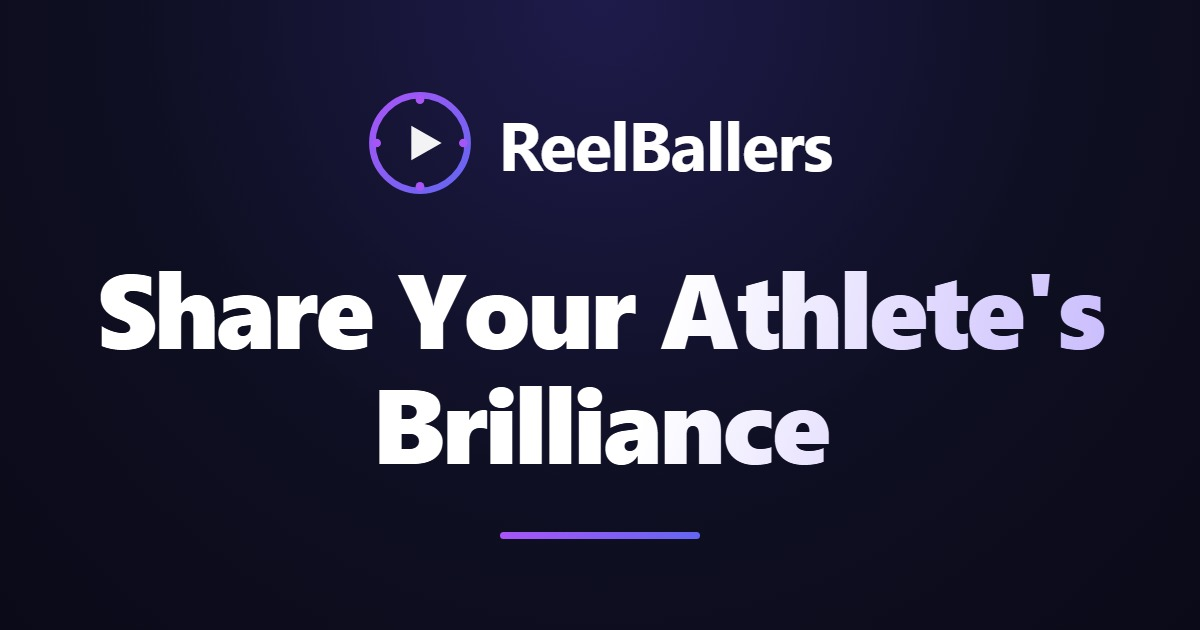
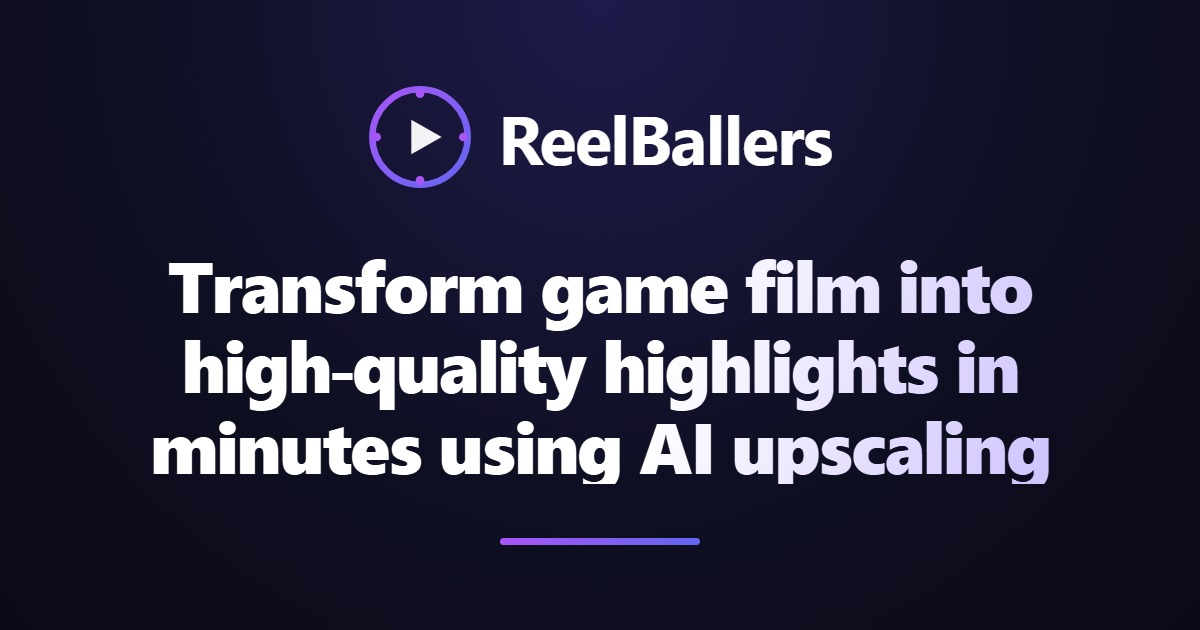
Tagline: "Transform game film into high-quality highlights in minutes using AI upscaling"; no-subscription pricing copy
Replaces "Share Your Athlete's/Player's Brilliance" everywhere it shipped:
landing site.ts TAGLINE (hero h1, About subline, regenerated og-card.jpg),
app sign-in screen and home header, app meta descriptions, and the branded
outro card burned into exported videos (now two centered lines with a
width-fitted font so it survives the 9:16 card; card version bumped).

Pricing copy now states the model consistently: no subscription, buy credits
when needed, pay only for the AI you use, credits never expire. Flows through
FACTS.pricingSummary into llms.txt and the SoftwareApplication offer schema;
hero note, pricing headline, cost FAQ, CTA, and CapCut comparison updated.
Also drops the "highlight reels automatically" WebPage name (overclaim).

Changed region(s): [[0.0617, 0.3921, 0.925, 0.7841], [0.3083, 0.1206, 0.7092, 0.3317], [0.4008, 0.8444, 0.5858, 0.8746]]

diff --git a/src/frontend/index.html b/src/frontend/index.html
@@ -8,18 +8,18 @@
     <meta name="theme-color" content="#7c3aed" />
     <meta name="robots" content="noindex,follow" />
     <title>ReelBallers</title>
-    <meta name="description" content="Turn game film into highlight reels. Clip, spotlight, and share your player's best plays in minutes." />
+    <meta name="description" content="Transform game film into high-quality highlights in minutes using AI upscaling. No subscription: pay only for the AI you use." />
     <meta property="og:type" content="website" />
     <meta property="og:site_name" content="ReelBallers" />
     <meta property="og:title" content="ReelBallers" />
-    <meta property="og:description" content="Turn game film into highlight reels. Clip, spotlight, and share your player's best plays in minutes." />
+    <meta property="og:description" content="Transform game film into high-quality highlights in minutes using AI upscaling. No subscription: pay only for the AI you use." />
     <meta property="og:image" content="https://app.reelballers.com/og-card.jpg" />
     <meta property="og:image:type" content="image/jpeg" />
     <meta property="og:image:width" content="1200" />
     <meta property="og:image:height" content="630" />
     <meta name="twitter:card" content="summary_large_image" />
     <meta name="twitter:title" content="ReelBallers" />
-    <meta name="twitter:description" content="Turn game film into highlight reels. Clip, spotlight, and share your player's best plays in minutes." />
+    <meta name="twitter:description" content="Transform game film into high-quality highlights in minutes using AI upscaling. No subscription: pay only for the AI you use." />
     <meta name="twitter:image" content="https://app.reelballers.com/og-card.jpg" />
     <link rel="preconnect" href="https://app.reelballers.com" crossorigin>
     <script src="https://accounts.google.com/gsi/client" async defer></script>

diff --git a/src/landing/src/site.ts b/src/landing/src/site.ts
@@ -24,7 +24,7 @@ export const BRAND = 'ReelBallers'
  * The brand tagline. This is the headline humans read -- keep it short and keep
  * it the brand's voice. It is NOT the schema description; see DEFINITION.
  */
-export const TAGLINE = "Share Your Athlete's Brilliance"
+export const TAGLINE = 'Transform game film into high-quality highlights in minutes using AI upscaling'
 
 /**
  * The one-sentence factual definition, for machines rather than humans. Used
@@ -65,8 +65,8 @@ export const FACTS = {
   viewerRequirement: 'a web browser -- no app install and no account',
   /** Runs entirely in the browser; nothing to download. */
   install: 'Runs in the browser. There is nothing to download or install.',
-  /** Pricing. "Free to start" is the claim already made publicly. */
-  pricingSummary: 'Free to start.',
+  /** Pricing. No subscription exists in the product: credits are bought outright (pricing.json packs) and spent per upload/generation. */
+  pricingSummary: 'Free to start. No subscription: buy credits when you need them and pay only for the AI you use. Credits never expire.',
   /** New-account signup bonus (8) plus the welcome grant (80), both granted unconditionally and upfront at signup (T8120 retired the per-quest drip; T9680 confirmed 88 total, no conditions; T11170 decoupled the 80 from the quest system). Source of truth: NEW_ACCOUNT_CREDITS + WELCOME_CREDITS, both in storage_credits.py. */
   freeCredits: 88,
   /** Flat render cost: 1 credit per second of finished, exported video, rounded to the nearest second -- same rate regardless of resolution, upscaling, or overlays. Source of truth: round_credits_half_up(video_seconds) (round-half-up + 1-credit floor, T9750) in highlight_transform.py. */

diff --git a/src/landing/src/data/comparisons.ts b/src/landing/src/data/comparisons.ts
@@ -83,7 +83,7 @@ export const COMPARISONS: Comparison[] = [
       {
         dimension: 'Cost',
         them: 'Free if you already own an editor, or the price of one.',
-        us: 'Free to start.',
+        us: 'Free to start, then credits you buy as needed. No subscription.',
         winner: 'depends',
       },
       {
@@ -114,7 +114,7 @@ export const COMPARISONS: Comparison[] = [
     faqs: [
       {
         q: 'Is it cheaper to edit highlights myself?',
-        a: 'In money, often yes -- free editors exist and ReelBallers has paid tiers beyond the free start. In time, no: a manual reel typically costs several hours, and that cost repeats every time the reel changes.',
+        a: 'In money, often yes -- free editors exist and ReelBallers charges credits beyond the free start, with no subscription. In time, no: a manual reel typically costs several hours, and that cost repeats every time the reel changes.',
       },
       {
         q: 'Can I get the same result editing by hand?',
@@ -227,7 +227,7 @@ export const COMPARISONS: Comparison[] = [
       },
       {
         q: 'Is ReelBallers free like CapCut?',
-        a: 'ReelBallers is free to start. Both have paid tiers; check each for current pricing rather than relying on a figure quoted on a comparison page.',
+        a: 'ReelBallers is free to start and has no subscription: you buy credits and pay only for the AI you use. CapCut has a paid tier; check it for current pricing rather than relying on a figure quoted on a comparison page.',
       },
     ],
   },

diff --git a/src/frontend/src/components/ProjectManager.jsx b/src/frontend/src/components/ProjectManager.jsx
@@ -1527,7 +1527,7 @@ export function ProjectManager({
       {/* Header — pt-10 clears the fixed top-right controls on mobile */}
       <div className="text-center pt-10 coarse-pointer:pt-12 lg:pt-0 mb-4">
         <LogoWithText className="mx-auto mb-3" logoSize={40} textClassName="text-2xl sm:text-3xl" />
-        <p className="text-gray-400 text-sm">Share Your Player&apos;s Brilliance</p>
+        <p className="text-gray-400 text-sm">Transform game film into high-quality highlights in minutes using AI upscaling</p>
       </div>
 
       {/* T8330: proactive storage-expiry banner. Deep-links to the Games tab

diff --git a/src/landing/src/lib/schema.ts b/src/landing/src/lib/schema.ts
@@ -9,7 +9,7 @@
  * Fabricated ratings are a Google manual-action risk and AI engines cross-check
  * claims against other sources. See data/testimonials.ts.
  */
-import { SITE_URL, BRAND, DEFINITION, absUrl } from '../site'
+import { SITE_URL, BRAND, DEFINITION, FACTS, absUrl } from '../site'
 
 export interface FaqItem {
   q: string
@@ -48,7 +48,7 @@ export function softwareApplication(opts: { name?: string; description?: string 
       '@type': 'Offer',
       price: '0',
       priceCurrency: 'USD',
-      description: 'Free to start.',
+      description: FACTS.pricingSummary,
     },
   }
 }

diff --git a/src/frontend/src/components/SignInScreen.jsx b/src/frontend/src/components/SignInScreen.jsx
@@ -63,7 +63,7 @@ export function SignInScreen() {
               <LogoWithText />
             </div>
             <p className="text-gray-400 text-sm">
-              Share Your Player's Brilliance
+              Transform game film into high-quality highlights in minutes using AI upscaling
             </p>
           </div>
 

diff --git a/src/backend/app/services/branded_outro.py b/src/backend/app/services/branded_outro.py
@@ -83,10 +83,20 @@ OUTRO_PLAY_FADE_D = 0.12
 OUTRO_REVEAL_ST = 2.60       # tagline + URL begin fading in (after the brand read-hold)
 OUTRO_REVEAL_FADE_D = 0.35
 # Bump when the card LAYOUT or ANIMATION changes so stale cached cards (old build) rebuild.
-_CARD_VERSION = "v5-read-hold"
+_CARD_VERSION = "v6-two-line-tagline"
 MADE_WITH_TEXT = "Made with"
 BRAND_TEXT = "ReelBallers"
-TAGLINE_TEXT = "Share Your Player's Brilliance"
+TAGLINE_TEXT = "Transform game film into high-quality highlights in minutes using AI upscaling"
+# The tagline is burned in as TWO centered lines (one line overflows the 9:16 card even at
+# the fitted size). Split at the clause boundary; the join must equal TAGLINE_TEXT so the
+# card can never carry different words from the rest of the brand.
+TAGLINE_LINES = (
+    "Transform game film into high-quality",
+    "highlights in minutes using AI upscaling",
+)
+assert " ".join(TAGLINE_LINES) == TAGLINE_TEXT
+# DejaVu Sans Bold averages ~0.66 em per character; used to fit the tagline to the card width.
+_TAGLINE_EM_PER_CHAR = 0.66
 URL_TEXT = "reelballers.com"
 
 # Bundled font -- the Fly image installs ffmpeg but NO fontconfig fonts, so drawtext
@@ -199,7 +209,7 @@ def _build_outro_card(card_path: str, info: dict) -> None:
     #   "Made with"      (small caption, above the emblem)
     #   [emblem]         (spinning ring + landing play triangle -- the visual anchor)
     #   "ReelBallers"   (brand wordmark, below the emblem: reads "Made with .. ReelBallers")
-    #   tagline          ("Share Your Player's Brilliance")
+    #   tagline          (TAGLINE_LINES, two centered lines)
     #   reelballers.com  (URL, near the bottom edge)
     # The emblem is a square, sized off the SHORTER card side so it never overflows on any
     # of 9:16 / 1:1 / 16:9; overlay=(W-w)/2 centers it horizontally.
@@ -214,7 +224,11 @@ def _build_outro_card(card_path: str, info: dict) -> None:
 
     made_fs = max(16, round(h * 0.030))            # "Made with" -- deliberately small
     brand_fs = max(20, round(h * 0.045))           # "ReelBallers" -- the brand, larger
-    tag_fs = max(15, round(h * 0.028))
+    # Cap the tagline size so its longest line stays inside 90% of the card width: on 9:16
+    # the height-derived size would run the two-line tagline off both edges.
+    tag_fit = int(w * 0.90 / (max(len(line) for line in TAGLINE_LINES) * _TAGLINE_EM_PER_CHAR))
+    tag_fs = max(15, min(round(h * 0.028), tag_fit))
+    tag_line_h = round(tag_fs * 1.3)
     url_fs = max(13, round(h * 0.024))
     made_y = emblem_top - made_fs - round(h * 0.02)
     brand_y = emblem_bot + round(h * 0.03)
@@ -238,14 +252,24 @@ def _build_outro_card(card_path: str, info: dict) -> None:
     eob = f"1+2.70158*pow({q}-1,3)+1.70158*pow({q}-1,2)"
     play_dim = f"{emblem}*max(0.05,{eob})"
 
-    # The tagline contains an apostrophe, which cannot be reliably escaped inside a
-    # single-quoted drawtext `text=` across ffmpeg builds. Write it to a temp file and
-    # point drawtext at it with `textfile=` (sidesteps all filtergraph quoting).
-    tag_fd, tag_path = tempfile.mkstemp(suffix=".txt", prefix="rb_outro_tag_")
+    # Brand copy is written to temp files and drawn with `textfile=` rather than quoted
+    # inline in `text=`: punctuation (apostrophes, colons, commas) cannot be reliably
+    # escaped inside a single-quoted drawtext across ffmpeg builds, and this sidesteps all
+    # filtergraph quoting. One file per tagline line, each line centered independently
+    # (multi-line drawtext centers the block, not each line, on older ffmpeg builds).
+    tag_paths: list[str] = []
     try:
-        with os.fdopen(tag_fd, "w", encoding="utf-8") as f:
-            f.write(TAGLINE_TEXT)
-        tagfile = _escape_filter_path(Path(tag_path).as_posix())
+        for line in TAGLINE_LINES:
+            tag_fd, tag_path = tempfile.mkstemp(suffix=".txt", prefix="rb_outro_tag_")
+            tag_paths.append(tag_path)
+            with os.fdopen(tag_fd, "w", encoding="utf-8") as f:
+                f.write(line)
+        tagline_filters = "".join(
+            f"drawtext=fontfile='{font}':textfile='{_escape_filter_path(Path(p).as_posix())}':"
+            f"fontsize={tag_fs}:fontcolor={_CAPTION_COLOR}:x=(w-text_w)/2:y={tag_y + i * tag_line_h}:"
+            f"alpha='{_reveal_alpha()}',"
+            for i, p in enumerate(tag_paths)
+        )
 
         filter_complex = (
             # Ring: scale to the emblem box, spin (decelerating), fade in.
@@ -272,9 +296,7 @@ def _build_outro_card(card_path: str, info: dict) -> None:
             f"drawtext=fontfile='{font}':text='{BRAND_TEXT}':"
             f"fontsize={brand_fs}:fontcolor={_BRAND_COLOR}:x=(w-text_w)/2:y={brand_y},"
             # Staged reveal: tagline + URL fade in TOGETHER after the brand read-hold.
-            f"drawtext=fontfile='{font}':textfile='{tagfile}':"
-            f"fontsize={tag_fs}:fontcolor={_CAPTION_COLOR}:x=(w-text_w)/2:y={tag_y}:"
-            f"alpha='{_reveal_alpha()}',"
+            f"{tagline_filters}"
             f"drawtext=fontfile='{font}':text='{URL_TEXT}':"
             f"fontsize={url_fs}:fontcolor={_CAPTION_COLOR}:x=(w-text_w)/2:y={url_y}:"
             f"alpha='{_reveal_alpha()}',"
@@ -316,10 +338,11 @@ def _build_outro_card(card_path: str, info: dict) -> None:
         cmd += ["-f", "mp4", card_path]
         _run(cmd)
     finally:
-        try:
-            os.remove(tag_path)
-        except OSError:
-            pass
+        for tag_path in tag_paths:
+            try:
+                os.remove(tag_path)
+            except OSError:
+                pass
 
 
 def append_branded_outro(in_path: str, out_path: str) -> bool:

diff --git a/src/backend/tests/test_t5240_animated_outro.py b/src/backend/tests/test_t5240_animated_outro.py
@@ -12,7 +12,7 @@ is legible:
   - "Made with" + "ReelBallers" are present FROM t=0 and NEVER fade -- they sit fully
     visible alongside the logo animation so there is nothing to wait to read,
   - a READ-HOLD (~1.3s) on the resolved logo + brand so it can actually be read,
-  - THEN the tagline ("Share Your Player's Brilliance") + the URL fade in TOGETHER (the
+  - THEN the tagline (two centered lines, see TAGLINE_LINES) + the URL fade in TOGETHER (the
     only staged elements),
   - an END-HOLD (~1.55s) on the tagline + URL before the card ends.
 
@@ -48,7 +48,7 @@ pytestmark = pytest.mark.skipif(
 )
 
 # The tagline the card must carry (also asserted verbatim so a copy change fails loudly).
-EXPECTED_TAGLINE = "Share Your Player's Brilliance"
+EXPECTED_TAGLINE = "Transform game film into high-quality highlights in minutes using AI upscaling"
 
 # Crops on the default 1080x1920 card. `center` is the emblem INTERIOR (where the play
 # triangle lands -- inside the ring, so the ring band itself is excluded); `emblem` is the
